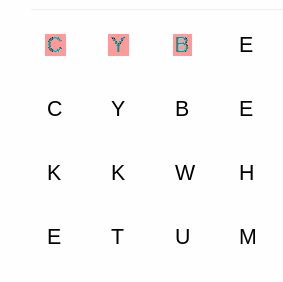
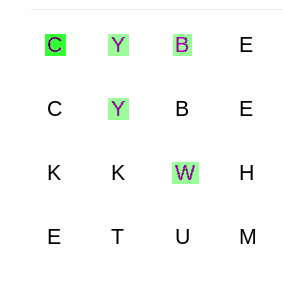
add constraint to deal with artifacts

diff --git a/utils.py b/utils.py
@@ -20,7 +20,7 @@ def get_rows(image_bin:ndarray,image_rgb:ndarray)->Tuple[List[np.ndarray],List[n
             rows_bin.append(image_rgb[start-TOLERANCE:(end+1+TOLERANCE)])
             rows_rgb.append(image_bin[start-TOLERANCE:(end+1+TOLERANCE)])
             looking_for_row_end=False
-        elif not(looking_for_row_end) and not(image_bin[i].all()):
+        elif not(looking_for_row_end) and not(image_bin[i].all()) and (i+1!=int(image_bin.shape[0]) and not(image_bin[i+1].all())):
             start=i
             looking_for_row_end=True
     return (rows_bin,rows_rgb)
@@ -112,5 +112,5 @@ def mark_letter(letter:Letter):
     image=letter.img_letter
     np.apply_along_axis(mark,2,image)
 def mark(x:np.ndarray):
-    x[2]-=100
-    x[1] -= 100
+    x[0]-=100
+    x[2] -= 100

diff --git a/UiActions.py b/UiActions.py
@@ -87,6 +87,8 @@ class UiActions():
         while True:
            r+=r_progres
            c+=c_progres
+           if r>= len(self.grid_of_letters) or c>= len(self.grid_of_letters[r]) or c<0 or r<0:
+               return []
            if self.grid_of_letters[r][c].character==word[index]:
                letters.append(self.grid_of_letters[r][c])
                index+=1
